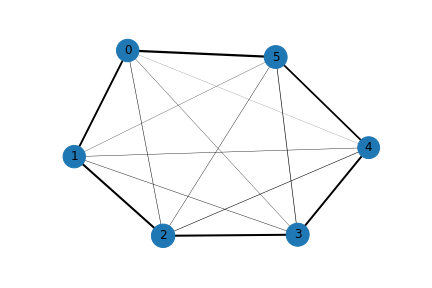
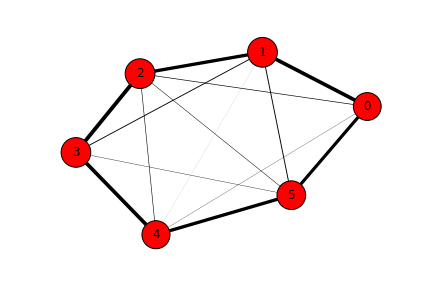
I have nothing to say.

diff --git a/if_quantum/draw_ent_network.py b/if_quantum/draw_ent_network.py
@@ -8,7 +8,7 @@ def make_graph(ent_dict,qubit_list):
     for i in range(len(qubit_list)):
         for j in range(i+1,len(qubit_list)):
                 if ent_dict[(i,j)] != 0.0:
-                    G.add_edge(i,j,weight=ent_dict[(i,j)]*10)
+                    G.add_edge(i,j,weight=ent_dict[(i,j)]*20)
                 
     return G
 
@@ -27,7 +27,7 @@ def draw_ent_graph(ent_dict,qubit_list,layout="circular"):
     print(nodesize)
     plt.figure(1)
     plt.axis('off')
-    nx.draw_networkx_nodes(G, pos, node_size=nodesize)
+    nx.draw_networkx_nodes(G, pos, node_size=nodesize, node_color="red",edgecolors="black")
     nx.draw_networkx_edges(G, pos, width=edgewidth)
     nx.draw_networkx_labels(G,pos)
 
